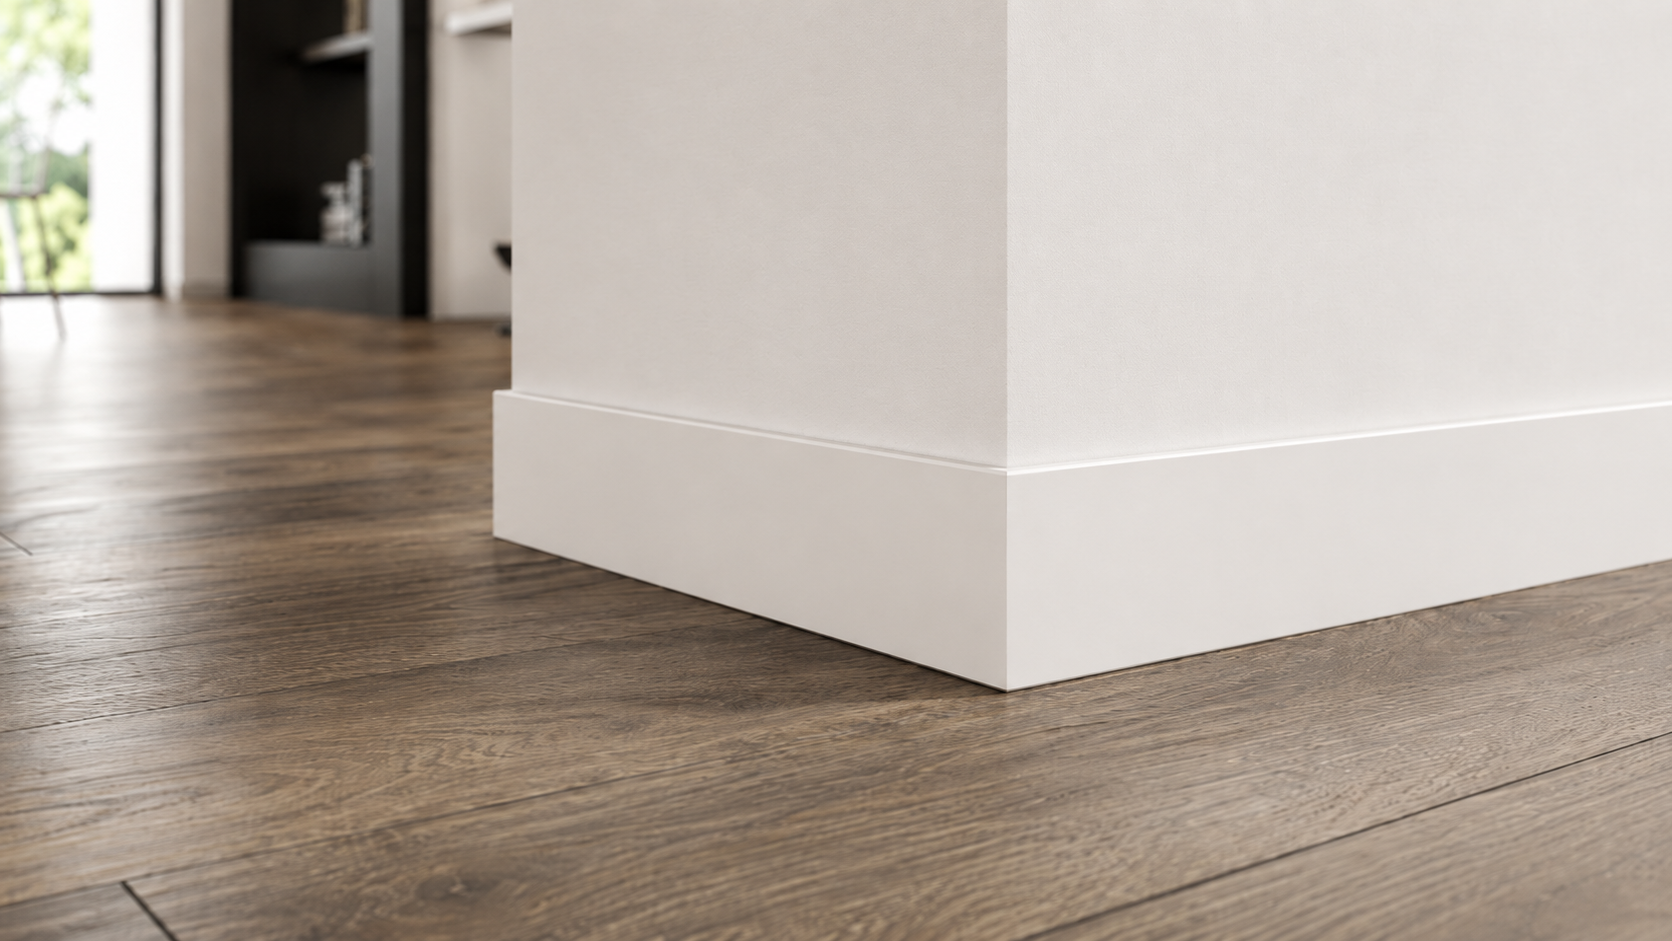
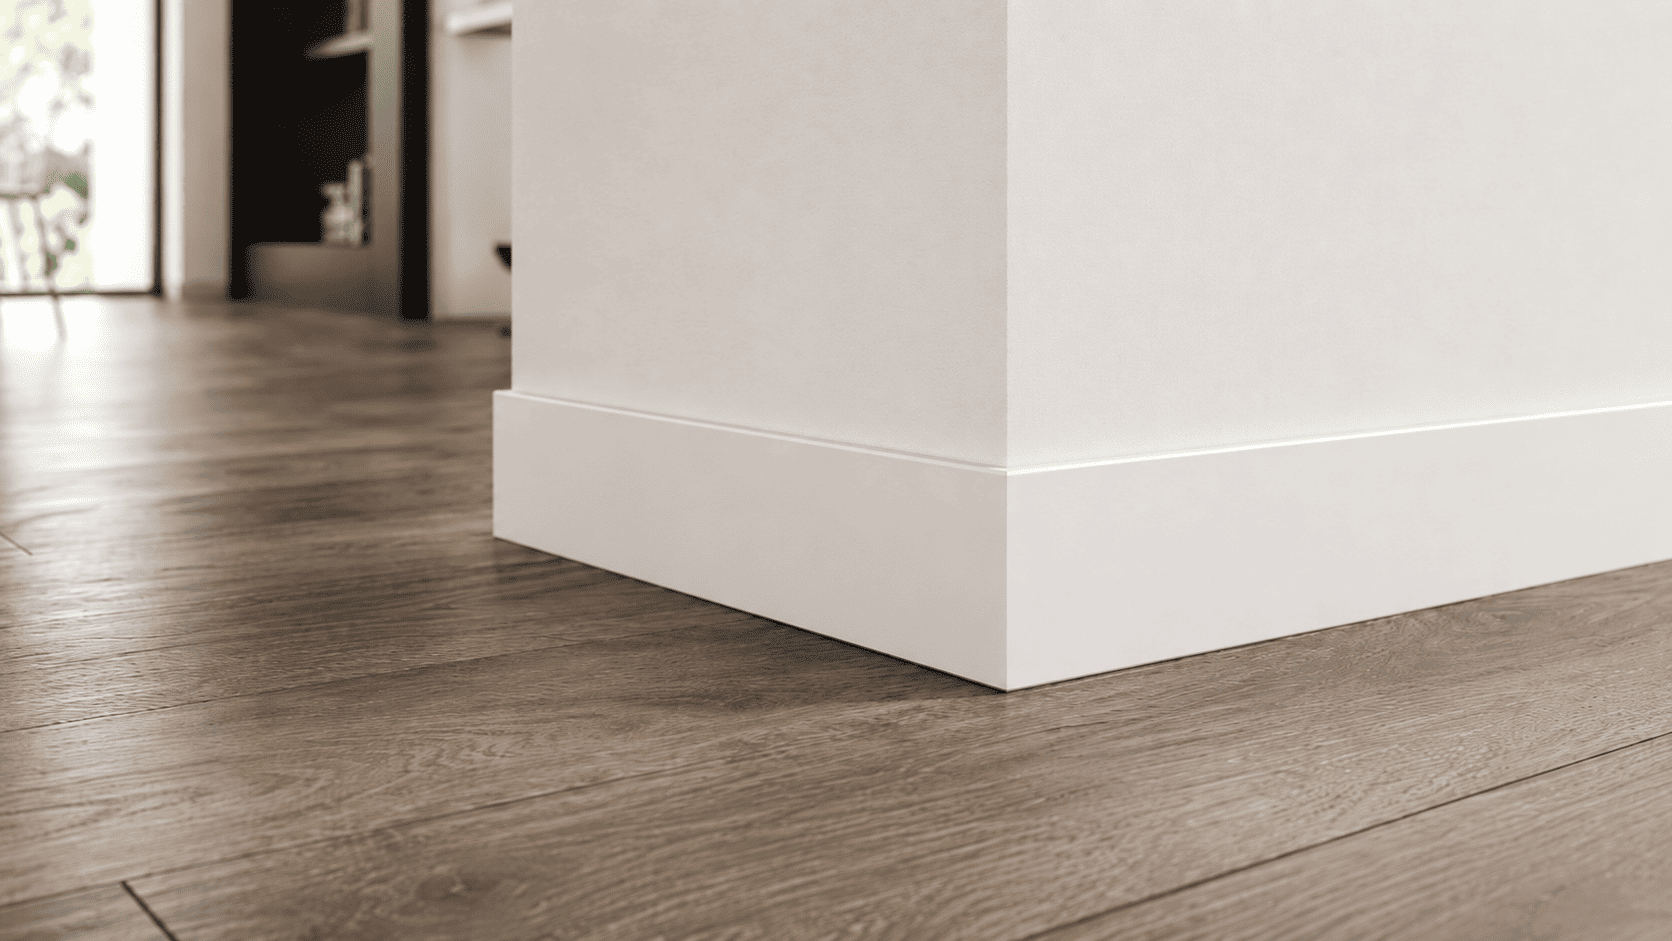
feat(content): Update product images
Replaces placeholder images with actual product visuals for SPC Flooring, Laminated Flooring, Dryback Flooring, EPS Baseboard, and Composite Decking.

diff --git a/data/siteContent.ts b/data/siteContent.ts
@@ -3,60 +3,60 @@ export const products = [
     id: 'spc-flooring',
     title: 'SPC Flooring',
     description: 'Piso vinílico rígido de alta tecnología. Impermeable, resistente y de nivelación precisa.',
-    image: 'https://picsum.photos/seed/spc-flooring/800/600'
+    image: '/Terminacion-superior.png'
   },
   {
     id: 'laminated-flooring',
     title: 'Laminated Flooring',
     description: 'Calidez visual de la madera con alta resistencia al tránsito. Instalación flotante impecable.',
-    image: 'https://picsum.photos/seed/laminated/800/600'
+    image: '/Piso-laminado.png'
   },
   {
     id: 'dryback-flooring',
     title: 'Dryback Flooring',
     description: 'Piso vinílico para pegar. Requiere máxima nivelación y ofrece terminación profesional limpia.',
-    image: 'https://picsum.photos/seed/dryback/800/600'
+    image: '/Piso-dryback.png'
   },
   {
     id: 'eps-baseboard',
     title: 'EPS Baseboard',
     description: 'Zócalos de EPS instalados con precisión. Encuentros perfectos entre piso y pared.',
-    image: 'https://picsum.photos/seed/eps-baseboard/800/600'
+    image: '/deck-wpc-calido.png'
   },
   {
     id: 'composite-decking',
     title: 'Composite Decking',
     description: 'Decks WPC para exterior. Líneas limpias, estructura sólida y terminación superior.',
-    image: 'https://picsum.photos/seed/decking/800/600'
+    image: '/wpc-decking.png'
   },
   {
     id: 'eps-wall-panel',
     title: 'EPS Wall Panel (interior)',
     description: 'Paneles de pared modernos. Textura y volumen con diseño arquitectónico sobrio.',
-    image: 'https://picsum.photos/seed/eps-wall/800/600'
+    image: '/Revestimiento-exterior.png'
   },
   {
     id: 'uv-marble-sheet',
     title: 'UV Marble Sheet (interior)',
     description: 'Láminas decorativas de pared con acabado piedra/mármol. Elegancia contemporánea interior.',
-    image: 'https://picsum.photos/seed/uv-marble/800/600'
+    image: '/hero.png'
   },
   {
     id: 'wpc-wall-panel',
     title: 'WPC Wall Panel (exterior)',
     description: 'Paneles ranurados y lisos para fachadas. Resistencia técnica y terminación premium.',
-    image: 'https://picsum.photos/seed/wpc-wall/800/600'
+    image: '/wpc-wallpanel-exterior.png'
   },
   {
     id: 'wpc-profile',
     title: 'WPC Profile (exterior)',
     description: 'Perfiles técnicos para detalles, cielorrasos y tubos exteriores con alta durabilidad.',
-    image: 'https://picsum.photos/seed/wpc-profile/800/600'
+    image: '/wpc-profile.png'
   },
   {
     id: 'pulido-madera',
     title: 'Pulido y restauración de pisos',
     description: 'Recuperación de madera natural. Diagnóstico, pulido profesional y plastificado/hidrolaqueado.',
-    image: 'https://picsum.photos/seed/pulido/800/600'
+    image: '/piso-de-madera.png'
   }
 ];